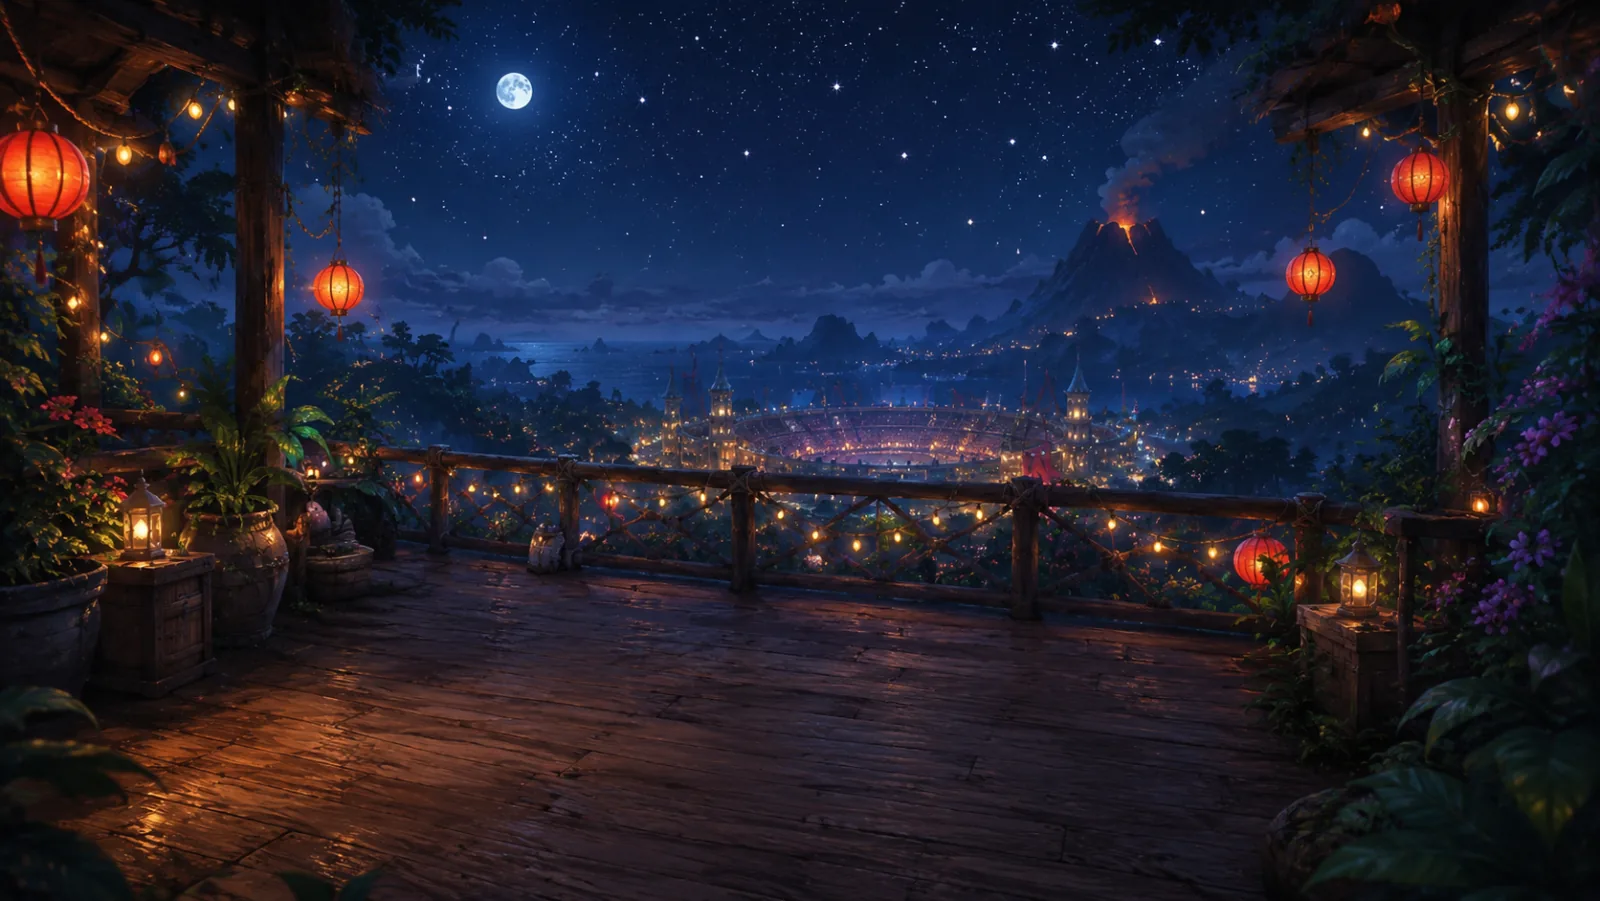
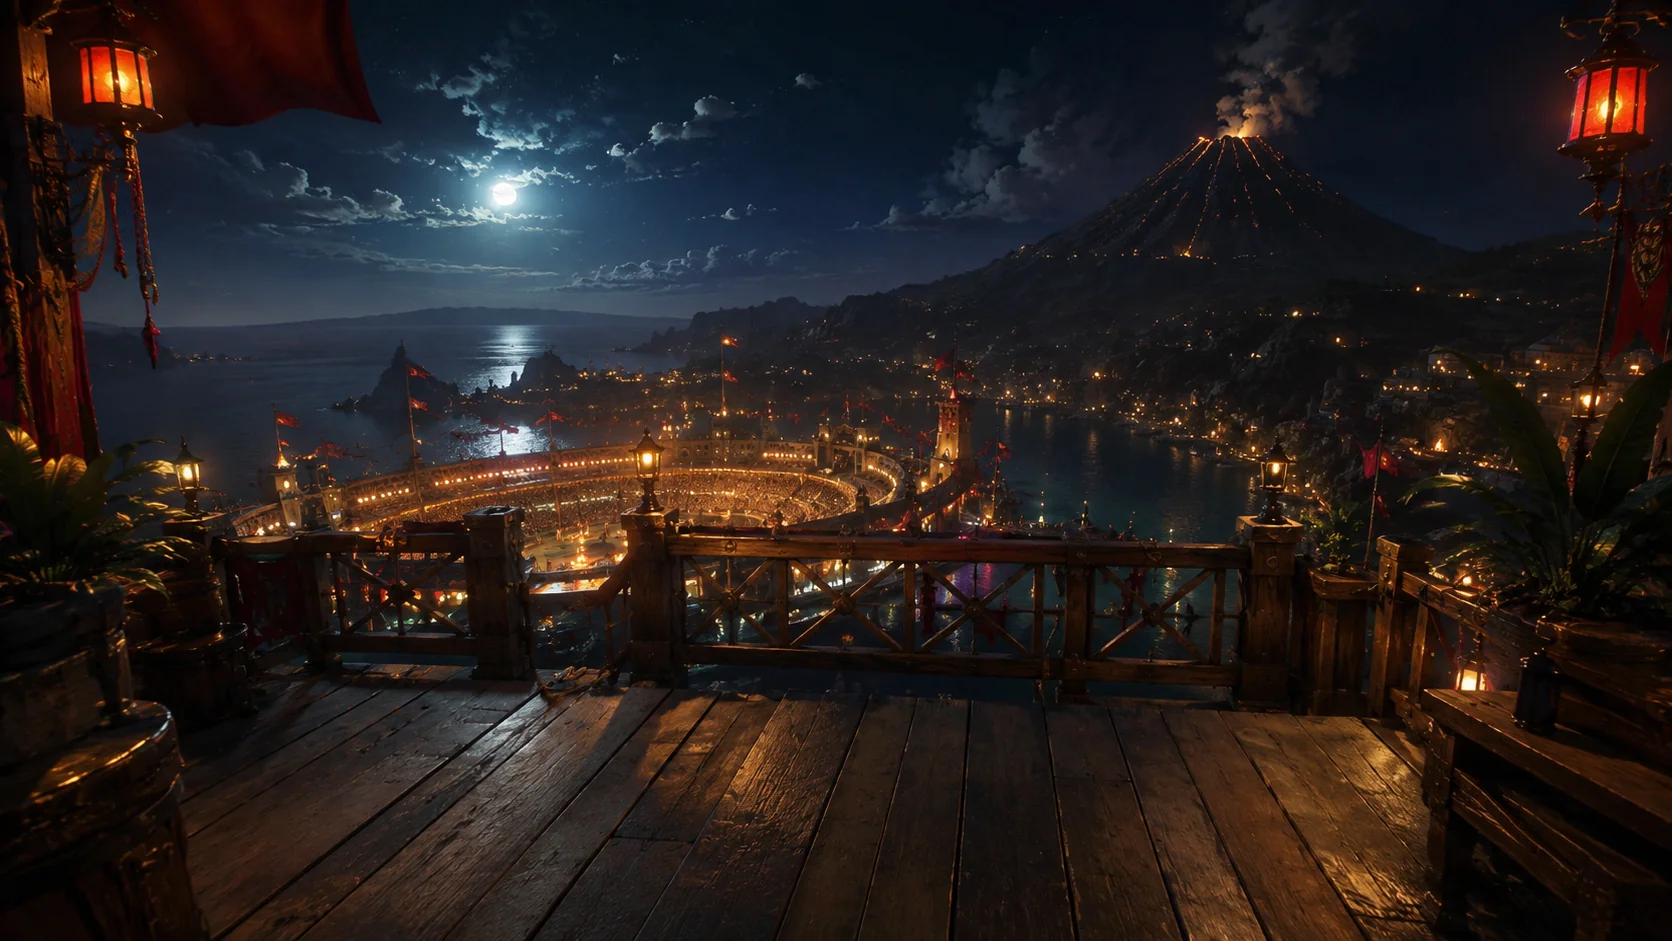
ホーム背景を高精細版に差し替え（昼/夜・1672x941ネイティブ・q85／?v=20260613b）
ユーザー再生成の高精細PNGを、リサイズ無しのネイティブ解像度・q85で再エンコード
（夜176KB／昼352KB）。読み込み・表示・コンソール0を検証済み。表示のみ・レース数値不変。

diff --git a/index.html b/index.html
@@ -12,7 +12,7 @@
 <link rel="apple-touch-icon" href="icon.svg">
 <link rel="manifest" href="manifest.json">
 <title>聖龍爆走録ミミ ／ 転生したらバニーガールだった私の汎用スキル《ぱほぱほ》だけがレベルアップな件</title>
-<link rel="stylesheet" href="style.css?v=20260613a">
+<link rel="stylesheet" href="style.css?v=20260613b">
 </head>
 <body>
 <header id="header">
@@ -51,41 +51,41 @@
   8) sim_tools.js      — debug/balance harness
   9) main.js           — entry point, wires everything
 -->
-<script src="js/utils.js?v=20260613a"></script>
-<script src="js/sfx.js?v=20260613a"></script>
-<script src="js/bgm.js?v=20260613a"></script>
-<script src="js/data_dragons.js?v=20260613a"></script>
-<script src="js/data_courses.js?v=20260613a"></script>
-<script src="js/data_weather.js?v=20260613a"></script>
-<script src="js/data_ranks.js?v=20260613a"></script>
-<script src="js/data_assets.js?v=20260613a"></script>
-<script src="js/data_races.js?v=20260613a"></script>
-<script src="js/data_dragons_ext.js?v=20260613a"></script>
-<script src="js/state.js?v=20260613a"></script>
-<script src="js/race_engine.js?v=20260613a"></script>
-<script src="js/odds_engine.js?v=20260613a"></script>
-<script src="js/betting_engine.js?v=20260613a"></script>
-<script src="js/analysis_engine.js?v=20260613a"></script>
-<script src="js/assets_engine.js?v=20260613a"></script>
-<script src="js/lifetree_engine.js?v=20260613a"></script>
-<script src="js/recap_engine.js?v=20260613a"></script>
-<script src="js/broadcast_engine.js?v=20260613a"></script>
-<script src="js/commentary_data.js?v=20260613a"></script>
-<script src="js/commentary_engine.js?v=20260613a"></script>
-<script src="js/race_timeline_engine.js?v=20260613a"></script>
-<script src="js/race_canvas.js?v=20260613a"></script>
-<script src="js/event_hooks.js?v=20260613a"></script>
-<script src="js/event_registry.js?v=20260613a"></script>
-<script src="js/ui_render.js?v=20260613a"></script>
-<script src="js/mall_dungeon.js?v=20260613a"></script>
-<script src="js/dialogue.js?v=20260613a"></script>
-<script src="js/data_dialogue.js?v=20260613a"></script>
+<script src="js/utils.js?v=20260613b"></script>
+<script src="js/sfx.js?v=20260613b"></script>
+<script src="js/bgm.js?v=20260613b"></script>
+<script src="js/data_dragons.js?v=20260613b"></script>
+<script src="js/data_courses.js?v=20260613b"></script>
+<script src="js/data_weather.js?v=20260613b"></script>
+<script src="js/data_ranks.js?v=20260613b"></script>
+<script src="js/data_assets.js?v=20260613b"></script>
+<script src="js/data_races.js?v=20260613b"></script>
+<script src="js/data_dragons_ext.js?v=20260613b"></script>
+<script src="js/state.js?v=20260613b"></script>
+<script src="js/race_engine.js?v=20260613b"></script>
+<script src="js/odds_engine.js?v=20260613b"></script>
+<script src="js/betting_engine.js?v=20260613b"></script>
+<script src="js/analysis_engine.js?v=20260613b"></script>
+<script src="js/assets_engine.js?v=20260613b"></script>
+<script src="js/lifetree_engine.js?v=20260613b"></script>
+<script src="js/recap_engine.js?v=20260613b"></script>
+<script src="js/broadcast_engine.js?v=20260613b"></script>
+<script src="js/commentary_data.js?v=20260613b"></script>
+<script src="js/commentary_engine.js?v=20260613b"></script>
+<script src="js/race_timeline_engine.js?v=20260613b"></script>
+<script src="js/race_canvas.js?v=20260613b"></script>
+<script src="js/event_hooks.js?v=20260613b"></script>
+<script src="js/event_registry.js?v=20260613b"></script>
+<script src="js/ui_render.js?v=20260613b"></script>
+<script src="js/mall_dungeon.js?v=20260613b"></script>
+<script src="js/dialogue.js?v=20260613b"></script>
+<script src="js/data_dialogue.js?v=20260613b"></script>
 <!-- Live2Dリグ竜ランタイム（マスコット/レース竜用・表示専用） -->
-<script src="live2d/js/util.js?v=20260613a"></script>
-<script src="live2d/js/rig.js?v=20260613a"></script>
-<script src="live2d/js/player.js?v=20260613a"></script>
-<script src="js/dragon_live2d.js?v=20260613a"></script>
-<script src="js/sim_tools.js?v=20260613a"></script>
-<script src="js/main.js?v=20260613a"></script>
+<script src="live2d/js/util.js?v=20260613b"></script>
+<script src="live2d/js/rig.js?v=20260613b"></script>
+<script src="live2d/js/player.js?v=20260613b"></script>
+<script src="js/dragon_live2d.js?v=20260613b"></script>
+<script src="js/sim_tools.js?v=20260613b"></script>
+<script src="js/main.js?v=20260613b"></script>
 </body>
 </html>
